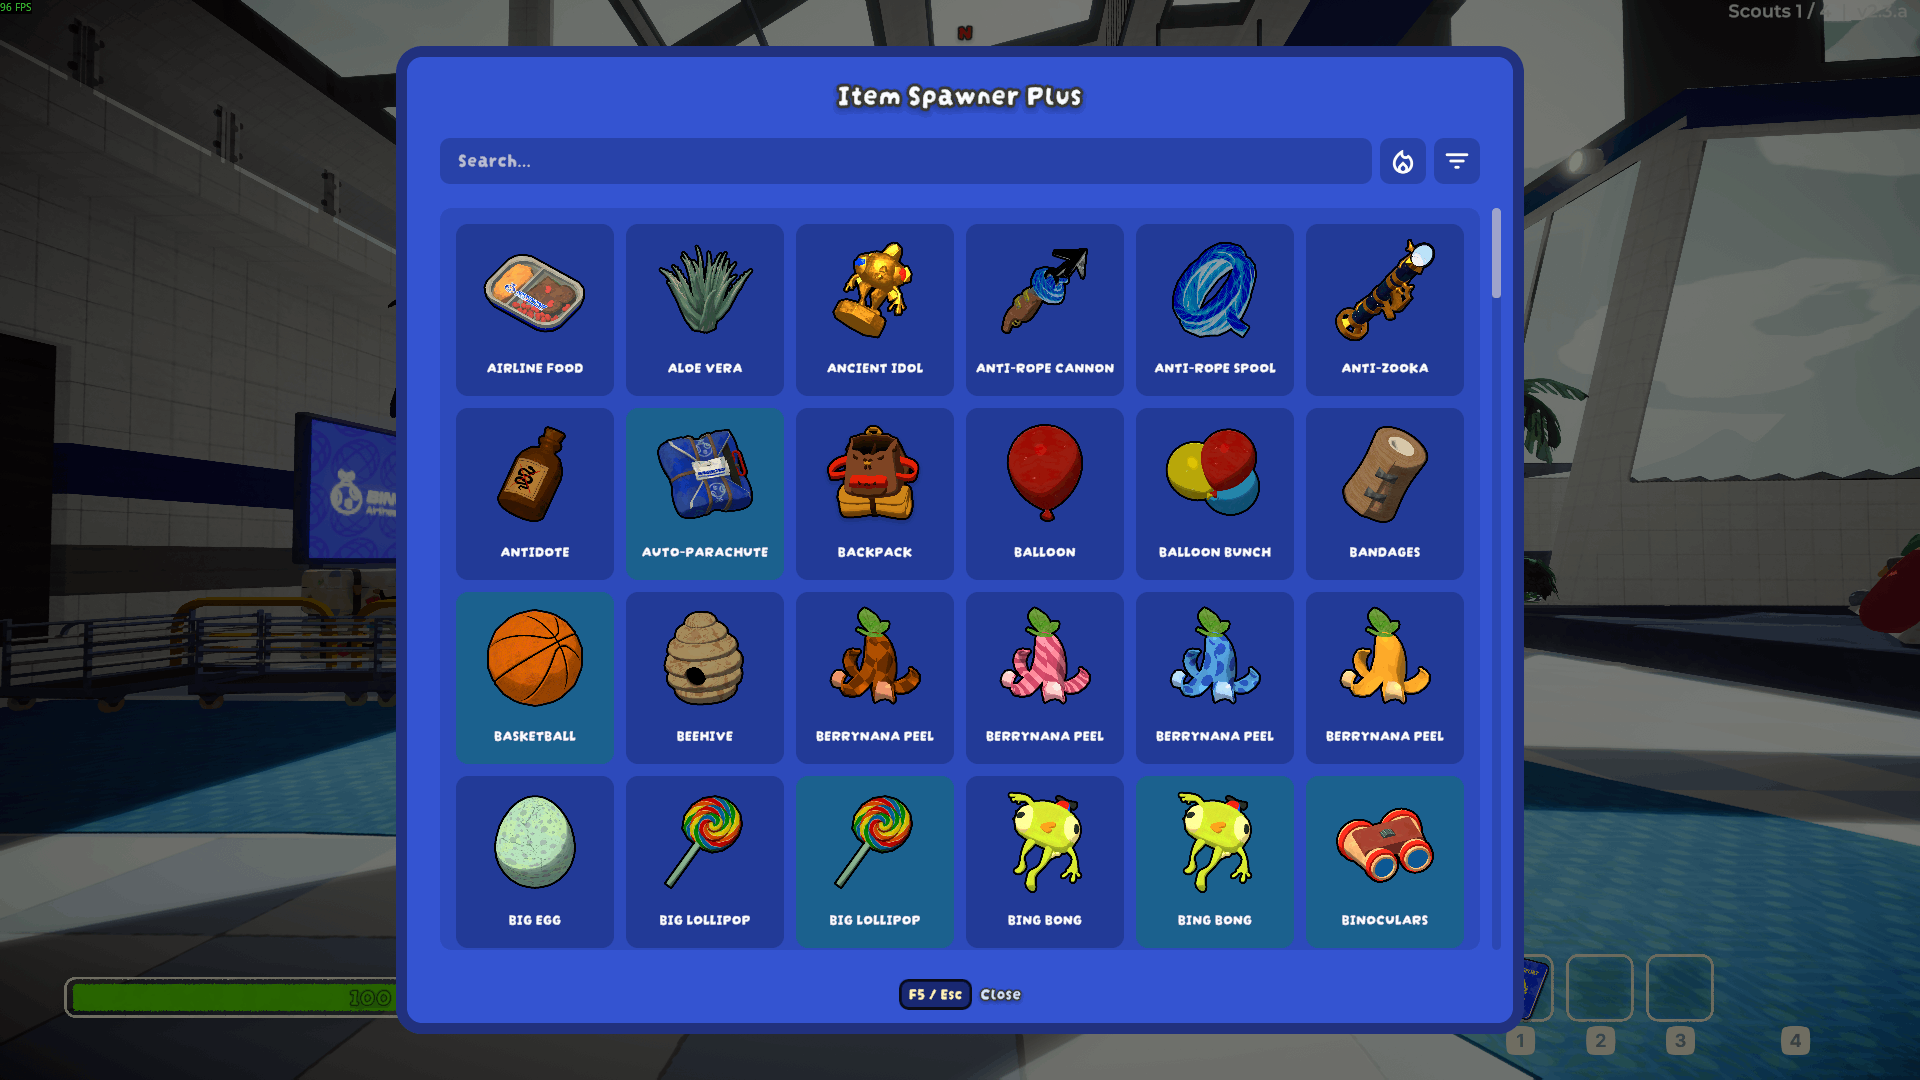
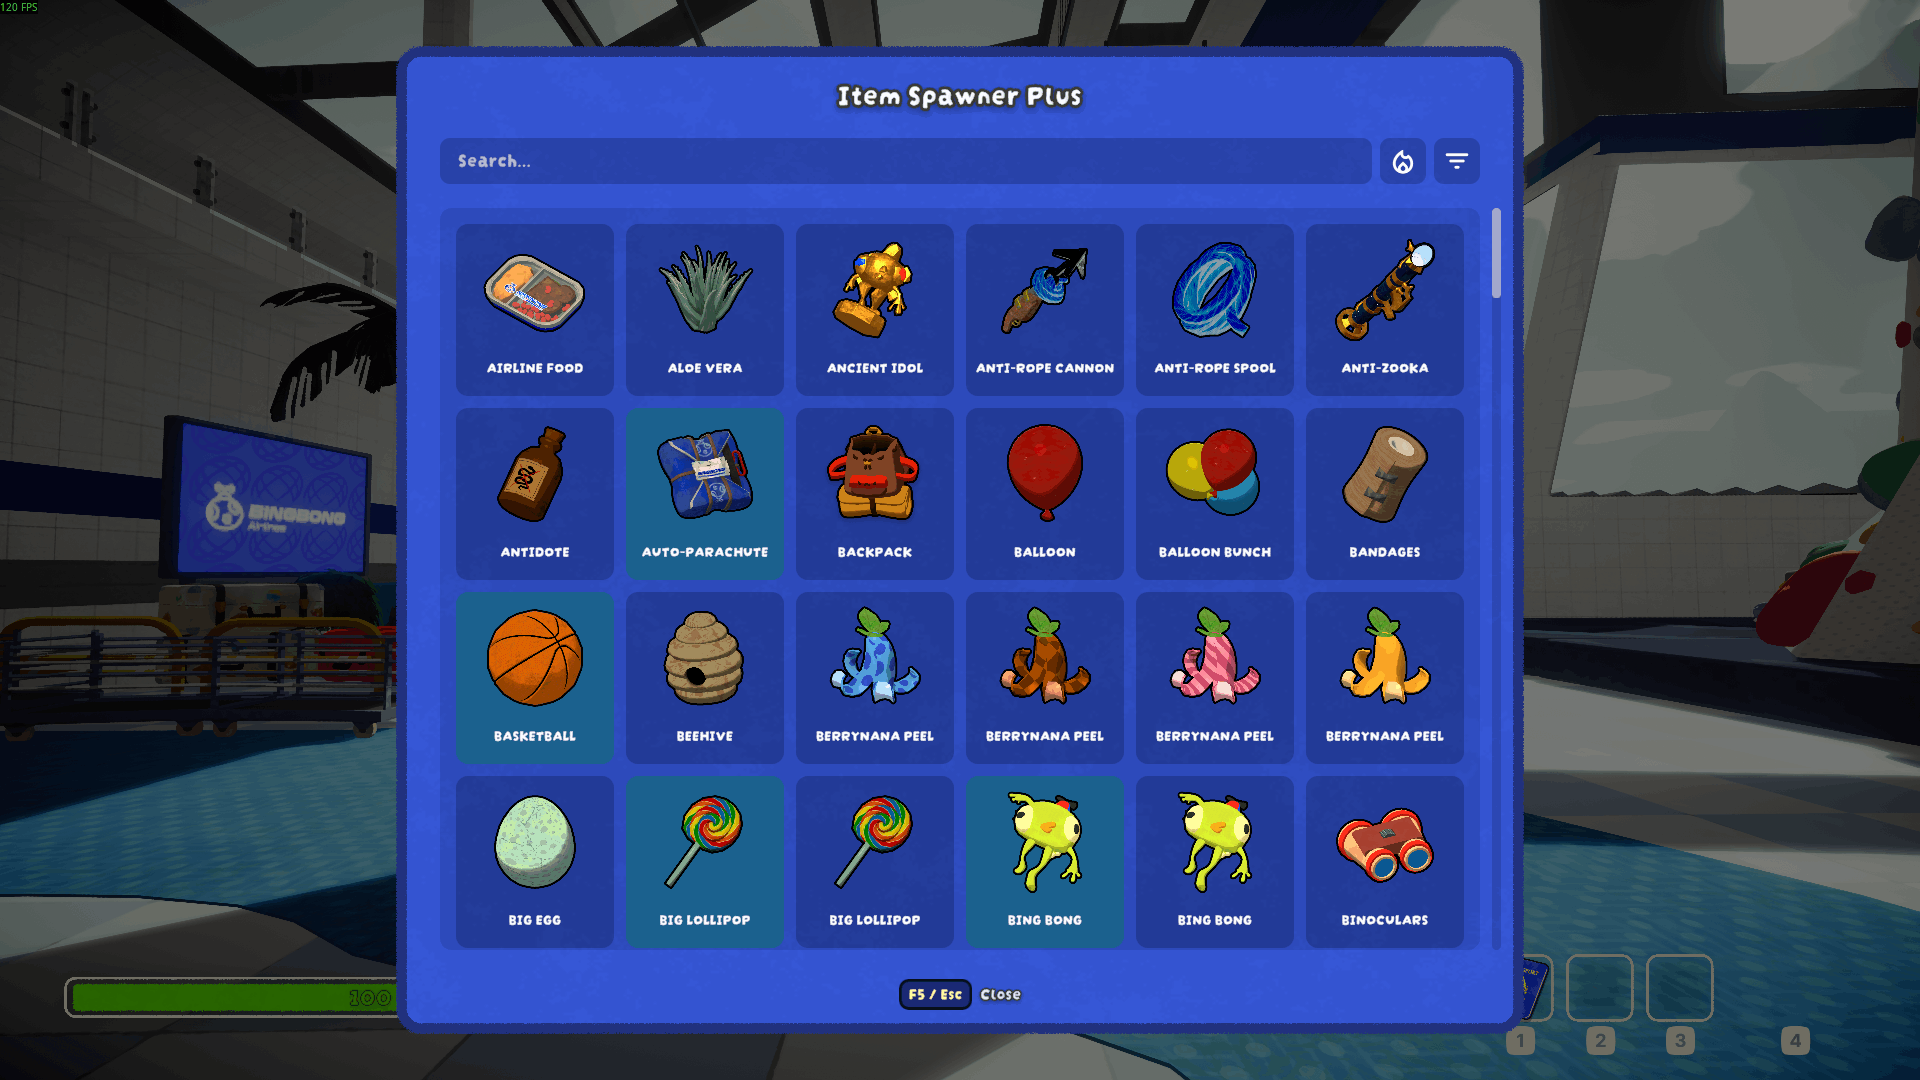
bump version to v1.1.0; update screenshots;

diff --git a/src/ItemSpawnerPlus/PluginInfo.cs b/src/ItemSpawnerPlus/PluginInfo.cs
@@ -4,6 +4,6 @@ namespace ItemSpawnerPlus
     {
         public const string Guid = "OnlyCook.ItemSpawnerPlus";
         public const string Name = "Item Spawner Plus";
-        public const string Version = "1.0.0";
+        public const string Version = "1.1.0";
     }
 }

diff --git a/packaging/CHANGELOG.md b/packaging/CHANGELOG.md
@@ -1,3 +1,8 @@
+## 1.1.0
+
+- Now able to spawn creatures.
+- Added 2 indicators: *error* (cannot be spawned at Airport) and *warning* (will explode when spawned).
+
 ## 1.0.0
 
 Initial release.
